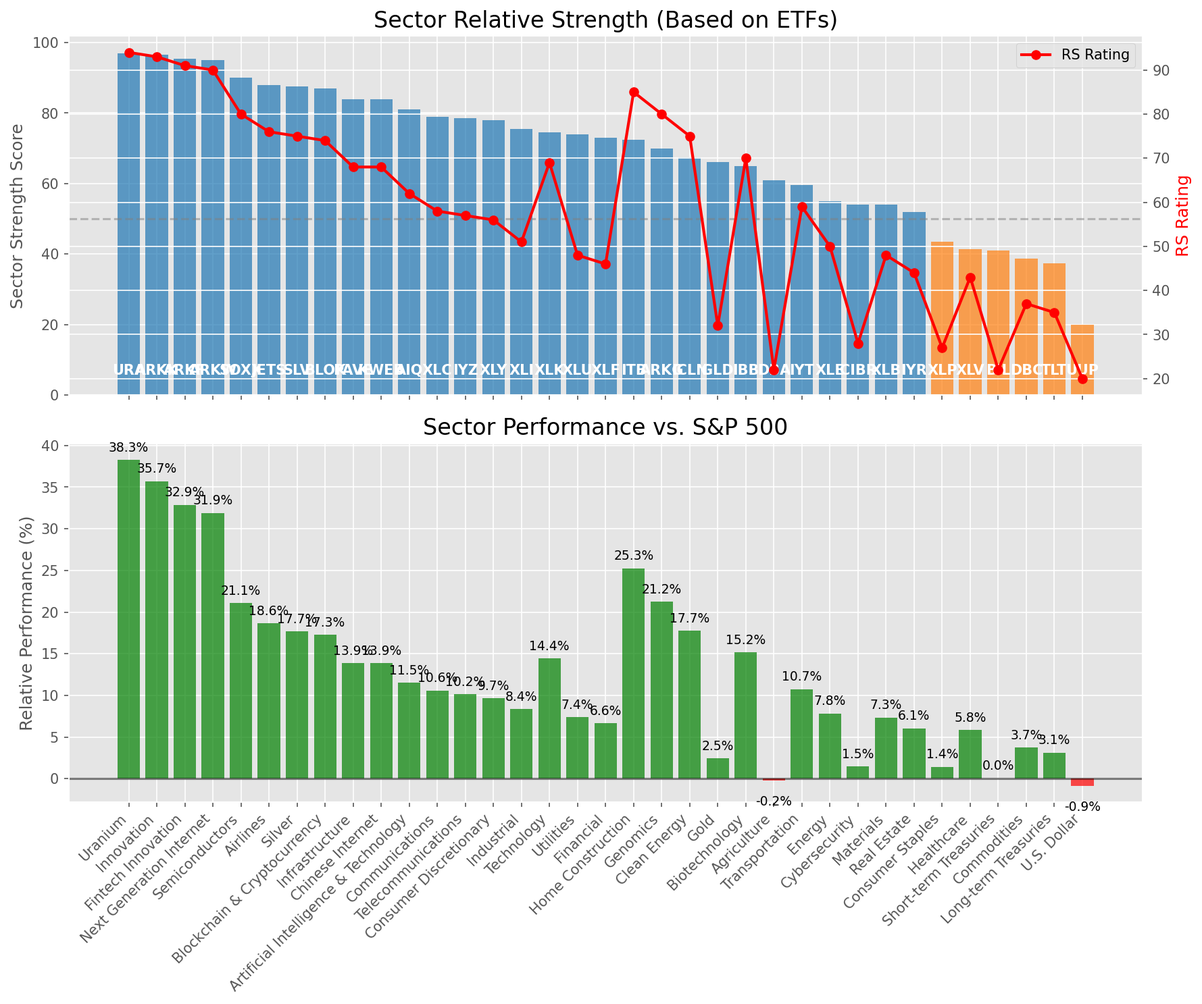
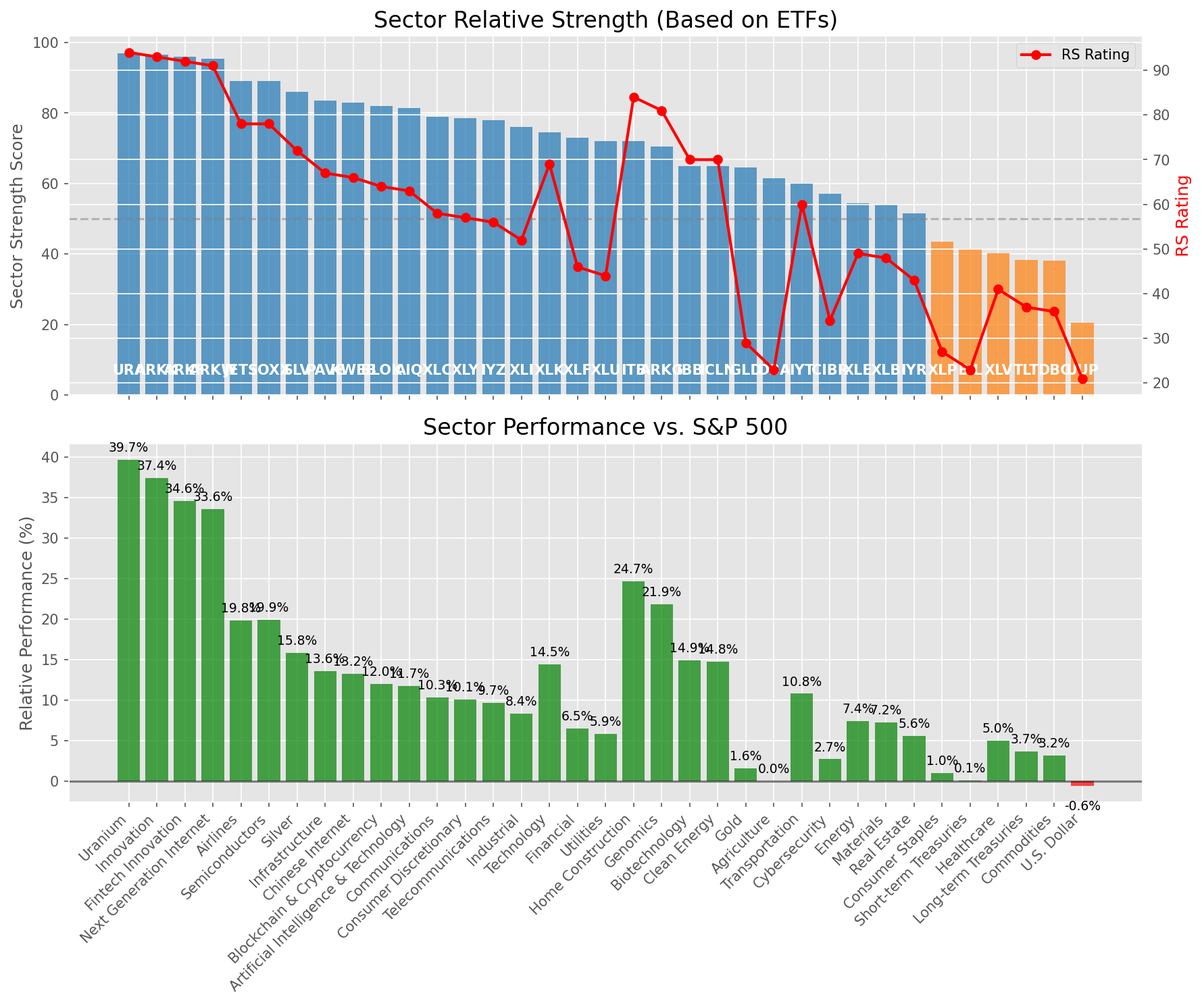
Add market report for 2025-08-23

diff --git a/oneil_relative_strength_report_2025-08-23.md b/oneil_relative_strength_report_2025-08-23.md
@@ -49,41 +49,41 @@ Based on William O'Neil's Relative Strength Methodology
 
 | ETF | Strength | RS Rating | Performance | Above Key MAs | Trend | Sector |
 |-----|----------|-----------|-------------|--------------|-------|--------|
-| [URA](https://www.tradingview.com/chart/?symbol=URA) | 97.0 | 94.0 | 38.29% | 10d ✓, 50d ✓, 200d ✓ | ↗ | Uranium |
-| [ARKK](https://www.tradingview.com/chart/?symbol=ARKK) | 96.5 | 93.0 | 35.72% | 10d ✓, 50d ✓, 200d ✓ | ↗ | Innovation |
-| [ARKF](https://www.tradingview.com/chart/?symbol=ARKF) | 95.5 | 91.0 | 32.87% | 10d ✓, 50d ✓, 200d ✓ | ↗ | Fintech Innovation |
-| [ARKW](https://www.tradingview.com/chart/?symbol=ARKW) | 95.0 | 90.0 | 31.90% | 10d ✓, 50d ✓, 200d ✓ | ↗ | Next Generation Internet |
-| [SOXX](https://www.tradingview.com/chart/?symbol=SOXX) | 90.0 | 80.0 | 21.06% | 10d ✓, 50d ✓, 200d ✓ | ↗ | Semiconductors |
-| [JETS](https://www.tradingview.com/chart/?symbol=JETS) | 88.0 | 76.0 | 18.64% | 10d ✓, 50d ✓, 200d ✓ | ↗ | Airlines |
-| [SLV](https://www.tradingview.com/chart/?symbol=SLV) | 87.5 | 75.0 | 17.68% | 10d ✓, 50d ✓, 200d ✓ | ↗ | Silver |
-| [BLOK](https://www.tradingview.com/chart/?symbol=BLOK) | 87.0 | 74.0 | 17.28% | 10d ✓, 50d ✓, 200d ✓ | ↗ | Blockchain & Cryptocurrency |
-| [PAVE](https://www.tradingview.com/chart/?symbol=PAVE) | 84.0 | 68.0 | 13.87% | 10d ✓, 50d ✓, 200d ✓ | ↗ | Infrastructure |
-| [KWEB](https://www.tradingview.com/chart/?symbol=KWEB) | 84.0 | 68.0 | 13.85% | 10d ✓, 50d ✓, 200d ✓ | ↗ | Chinese Internet |
-| [AIQ](https://www.tradingview.com/chart/?symbol=AIQ) | 81.0 | 62.0 | 11.51% | 10d ✓, 50d ✓, 200d ✓ | ↗ | Artificial Intelligence & Technology |
-| [XLC](https://www.tradingview.com/chart/?symbol=XLC) | 79.0 | 58.0 | 10.59% | 10d ✓, 50d ✓, 200d ✓ | ↗ | Communications |
-| [IYZ](https://www.tradingview.com/chart/?symbol=IYZ) | 78.5 | 57.0 | 10.16% | 10d ✓, 50d ✓, 200d ✓ | ↗ | Telecommunications |
-| [XLY](https://www.tradingview.com/chart/?symbol=XLY) | 78.0 | 56.0 | 9.66% | 10d ✓, 50d ✓, 200d ✓ | ↗ | Consumer Discretionary |
-| [XLI](https://www.tradingview.com/chart/?symbol=XLI) | 75.5 | 51.0 | 8.39% | 10d ✓, 50d ✓, 200d ✓ | ↗ | Industrial |
-| [XLK](https://www.tradingview.com/chart/?symbol=XLK) | 74.6 | 69.0 | 14.42% | 10d ✗, 50d ✓, 200d ✓ | ↗ | Technology |
-| [XLU](https://www.tradingview.com/chart/?symbol=XLU) | 74.0 | 48.0 | 7.42% | 10d ✓, 50d ✓, 200d ✓ | ↗ | Utilities |
-| [XLF](https://www.tradingview.com/chart/?symbol=XLF) | 73.0 | 46.0 | 6.65% | 10d ✓, 50d ✓, 200d ✓ | ↗ | Financial |
-| [ITB](https://www.tradingview.com/chart/?symbol=ITB) | 72.5 | 85.0 | 25.26% | 10d ✓, 50d ✓, 200d ✓ | ↘ | Home Construction |
-| [ARKG](https://www.tradingview.com/chart/?symbol=ARKG) | 70.0 | 80.0 | 21.23% | 10d ✓, 50d ✓, 200d ✓ | ↘ | Genomics |
-| [ICLN](https://www.tradingview.com/chart/?symbol=ICLN) | 67.5 | 75.0 | 17.74% | 10d ✓, 50d ✓, 200d ✓ | ↘ | Clean Energy |
-| [GLD](https://www.tradingview.com/chart/?symbol=GLD) | 66.0 | 32.0 | 2.46% | 10d ✓, 50d ✓, 200d ✓ | ↗ | Gold |
-| [IBB](https://www.tradingview.com/chart/?symbol=IBB) | 65.0 | 70.0 | 15.17% | 10d ✓, 50d ✓, 200d ✓ | ↘ | Biotechnology |
-| [DBA](https://www.tradingview.com/chart/?symbol=DBA) | 61.0 | 22.0 | -0.22% | 10d ✓, 50d ✓, 200d ✓ | ↗ | Agriculture |
-| [IYT](https://www.tradingview.com/chart/?symbol=IYT) | 59.5 | 59.0 | 10.75% | 10d ✓, 50d ✓, 200d ✓ | ↘ | Transportation |
-| [XLE](https://www.tradingview.com/chart/?symbol=XLE) | 55.0 | 50.0 | 7.84% | 10d ✓, 50d ✓, 200d ✓ | ↘ | Energy |
-| [CIBR](https://www.tradingview.com/chart/?symbol=CIBR) | 54.1 | 28.0 | 1.48% | 10d ✓, 50d ✗, 200d ✓ | ↗ | Cybersecurity |
-| [XLB](https://www.tradingview.com/chart/?symbol=XLB) | 54.0 | 48.0 | 7.35% | 10d ✓, 50d ✓, 200d ✓ | ↘ | Materials |
-| [IYR](https://www.tradingview.com/chart/?symbol=IYR) | 52.0 | 44.0 | 6.06% | 10d ✓, 50d ✓, 200d ✓ | ↘ | Real Estate |
-| [XLP](https://www.tradingview.com/chart/?symbol=XLP) | 43.5 | 27.0 | 1.44% | 10d ✓, 50d ✓, 200d ✓ | ↘ | Consumer Staples |
-| [XLV](https://www.tradingview.com/chart/?symbol=XLV) | 41.3 | 43.0 | 5.84% | 10d ✓, 50d ✓, 200d ✗ | ↘ | Healthcare |
-| [BIL](https://www.tradingview.com/chart/?symbol=BIL) | 41.0 | 22.0 | 0.04% | 10d ✓, 50d ✓, 200d ✓ | ↘ | Short-term Treasuries |
-| [DBC](https://www.tradingview.com/chart/?symbol=DBC) | 38.6 | 37.0 | 3.71% | 10d ✓, 50d ✗, 200d ✓ | ↘ | Commodities |
-| [TLT](https://www.tradingview.com/chart/?symbol=TLT) | 37.3 | 35.0 | 3.13% | 10d ✓, 50d ✓, 200d ✗ | ↘ | Long-term Treasuries |
-| [UUP](https://www.tradingview.com/chart/?symbol=UUP) | 19.9 | 20.0 | -0.87% | 10d ✗, 50d ✓, 200d ✗ | ↘ | U.S. Dollar |
+| [URA](https://www.tradingview.com/chart/?symbol=URA) | 97.0 | 94.0 | 39.71% | 10d ✓, 50d ✓, 200d ✓ | ↗ | Uranium |
+| [ARKK](https://www.tradingview.com/chart/?symbol=ARKK) | 96.5 | 93.0 | 37.43% | 10d ✓, 50d ✓, 200d ✓ | ↗ | Innovation |
+| [ARKF](https://www.tradingview.com/chart/?symbol=ARKF) | 96.0 | 92.0 | 34.58% | 10d ✓, 50d ✓, 200d ✓ | ↗ | Fintech Innovation |
+| [ARKW](https://www.tradingview.com/chart/?symbol=ARKW) | 95.5 | 91.0 | 33.61% | 10d ✓, 50d ✓, 200d ✓ | ↗ | Next Generation Internet |
+| [JETS](https://www.tradingview.com/chart/?symbol=JETS) | 89.0 | 78.0 | 19.84% | 10d ✓, 50d ✓, 200d ✓ | ↗ | Airlines |
+| [SOXX](https://www.tradingview.com/chart/?symbol=SOXX) | 89.0 | 78.0 | 19.95% | 10d ✓, 50d ✓, 200d ✓ | ↗ | Semiconductors |
+| [SLV](https://www.tradingview.com/chart/?symbol=SLV) | 86.0 | 72.0 | 15.83% | 10d ✓, 50d ✓, 200d ✓ | ↗ | Silver |
+| [PAVE](https://www.tradingview.com/chart/?symbol=PAVE) | 83.5 | 67.0 | 13.59% | 10d ✓, 50d ✓, 200d ✓ | ↗ | Infrastructure |
+| [KWEB](https://www.tradingview.com/chart/?symbol=KWEB) | 83.0 | 66.0 | 13.25% | 10d ✓, 50d ✓, 200d ✓ | ↗ | Chinese Internet |
+| [BLOK](https://www.tradingview.com/chart/?symbol=BLOK) | 82.0 | 64.0 | 12.05% | 10d ✓, 50d ✓, 200d ✓ | ↗ | Blockchain & Cryptocurrency |
+| [AIQ](https://www.tradingview.com/chart/?symbol=AIQ) | 81.5 | 63.0 | 11.74% | 10d ✓, 50d ✓, 200d ✓ | ↗ | Artificial Intelligence & Technology |
+| [XLC](https://www.tradingview.com/chart/?symbol=XLC) | 79.0 | 58.0 | 10.35% | 10d ✓, 50d ✓, 200d ✓ | ↗ | Communications |
+| [XLY](https://www.tradingview.com/chart/?symbol=XLY) | 78.5 | 57.0 | 10.13% | 10d ✓, 50d ✓, 200d ✓ | ↗ | Consumer Discretionary |
+| [IYZ](https://www.tradingview.com/chart/?symbol=IYZ) | 78.0 | 56.0 | 9.65% | 10d ✓, 50d ✓, 200d ✓ | ↗ | Telecommunications |
+| [XLI](https://www.tradingview.com/chart/?symbol=XLI) | 76.0 | 52.0 | 8.36% | 10d ✓, 50d ✓, 200d ✓ | ↗ | Industrial |
+| [XLK](https://www.tradingview.com/chart/?symbol=XLK) | 74.6 | 69.0 | 14.45% | 10d ✗, 50d ✓, 200d ✓ | ↗ | Technology |
+| [XLF](https://www.tradingview.com/chart/?symbol=XLF) | 73.0 | 46.0 | 6.52% | 10d ✓, 50d ✓, 200d ✓ | ↗ | Financial |
+| [XLU](https://www.tradingview.com/chart/?symbol=XLU) | 72.0 | 44.0 | 5.88% | 10d ✓, 50d ✓, 200d ✓ | ↗ | Utilities |
+| [ITB](https://www.tradingview.com/chart/?symbol=ITB) | 72.0 | 84.0 | 24.70% | 10d ✓, 50d ✓, 200d ✓ | ↘ | Home Construction |
+| [ARKG](https://www.tradingview.com/chart/?symbol=ARKG) | 70.5 | 81.0 | 21.87% | 10d ✓, 50d ✓, 200d ✓ | ↘ | Genomics |
+| [IBB](https://www.tradingview.com/chart/?symbol=IBB) | 65.0 | 70.0 | 14.91% | 10d ✓, 50d ✓, 200d ✓ | ↘ | Biotechnology |
+| [ICLN](https://www.tradingview.com/chart/?symbol=ICLN) | 65.0 | 70.0 | 14.79% | 10d ✓, 50d ✓, 200d ✓ | ↘ | Clean Energy |
+| [GLD](https://www.tradingview.com/chart/?symbol=GLD) | 64.5 | 29.0 | 1.56% | 10d ✓, 50d ✓, 200d ✓ | ↗ | Gold |
+| [DBA](https://www.tradingview.com/chart/?symbol=DBA) | 61.5 | 23.0 | 0.04% | 10d ✓, 50d ✓, 200d ✓ | ↗ | Agriculture |
+| [IYT](https://www.tradingview.com/chart/?symbol=IYT) | 60.0 | 60.0 | 10.81% | 10d ✓, 50d ✓, 200d ✓ | ↘ | Transportation |
+| [CIBR](https://www.tradingview.com/chart/?symbol=CIBR) | 57.1 | 34.0 | 2.72% | 10d ✓, 50d ✗, 200d ✓ | ↗ | Cybersecurity |
+| [XLE](https://www.tradingview.com/chart/?symbol=XLE) | 54.5 | 49.0 | 7.42% | 10d ✓, 50d ✓, 200d ✓ | ↘ | Energy |
+| [XLB](https://www.tradingview.com/chart/?symbol=XLB) | 54.0 | 48.0 | 7.24% | 10d ✓, 50d ✓, 200d ✓ | ↘ | Materials |
+| [IYR](https://www.tradingview.com/chart/?symbol=IYR) | 51.5 | 43.0 | 5.62% | 10d ✓, 50d ✓, 200d ✓ | ↘ | Real Estate |
+| [XLP](https://www.tradingview.com/chart/?symbol=XLP) | 43.5 | 27.0 | 1.02% | 10d ✓, 50d ✓, 200d ✓ | ↘ | Consumer Staples |
+| [BIL](https://www.tradingview.com/chart/?symbol=BIL) | 41.5 | 23.0 | 0.07% | 10d ✓, 50d ✓, 200d ✓ | ↘ | Short-term Treasuries |
+| [XLV](https://www.tradingview.com/chart/?symbol=XLV) | 40.3 | 41.0 | 5.01% | 10d ✓, 50d ✓, 200d ✗ | ↘ | Healthcare |
+| [TLT](https://www.tradingview.com/chart/?symbol=TLT) | 38.3 | 37.0 | 3.67% | 10d ✓, 50d ✓, 200d ✗ | ↘ | Long-term Treasuries |
+| [DBC](https://www.tradingview.com/chart/?symbol=DBC) | 38.1 | 36.0 | 3.18% | 10d ✓, 50d ✗, 200d ✓ | ↘ | Commodities |
+| [UUP](https://www.tradingview.com/chart/?symbol=UUP) | 20.4 | 21.0 | -0.58% | 10d ✗, 50d ✓, 200d ✗ | ↘ | U.S. Dollar |
 
 ### **Sector ETF Performance Interpretation**
 
@@ -100,163 +100,155 @@ This table shows the relative strength metrics for different market sectors base
 
 The current market leadership is coming from the following sectors: **Uranium, Innovation, Fintech Innovation**.
 
-The **Uranium** sector (represented by **URA**) is showing particularly strong relative strength with an RS rating of 94.0 and performance of 38.29% vs. the S&P 500. This sector is trading above its 10-day, 50-day, 200-day moving average(s). Investors should consider focusing on high RS stocks within these leading sectors for potential outperformance.
+The **Uranium** sector (represented by **URA**) is showing particularly strong relative strength with an RS rating of 94.0 and performance of 39.71% vs. the S&P 500. This sector is trading above its 10-day, 50-day, 200-day moving average(s). Investors should consider focusing on high RS stocks within these leading sectors for potential outperformance.
 
 ---
 
 ## **Buy Recommendations**
 
-The following 48 stocks show exceptional relative strength:
+The following 49 stocks show exceptional relative strength:
 
 | RS Rating | Buy Score | Current Price | Chart | Name | Ticker |
 |-----------|-----------|---------------|-------|------|--------|
-| 99 | 100 | $58.43 | [Chart](https://www.tradingview.com/chart/?symbol=TPC) | Tutor Perini Corporation | TPC |
 | 99 | 100 | $103.27 | [Chart](https://www.tradingview.com/chart/?symbol=RYTM) | Rhythm Pharmaceuticals, Inc. Common Stock | RYTM |
 | 99 | 100 | $190.64 | [Chart](https://www.tradingview.com/chart/?symbol=FUTU) | Futu Holdings Limited American Depositary Shares | FUTU |
-| 99 | 100 | $26.84 | [Chart](https://www.tradingview.com/chart/?symbol=LQDA) | Liquidia Corporation Common Stock | LQDA |
 | 99 | 100 | $44.38 | [Chart](https://www.tradingview.com/chart/?symbol=RKLB) | Rocket Lab Corporation Common Stock | RKLB |
+| 98 | 100 | $44.43 | [Chart](https://www.tradingview.com/chart/?symbol=TTMI) | TTM Technologies Inc | TTMI |
 | 98 | 100 | $198.98 | [Chart](https://www.tradingview.com/chart/?symbol=COOP) | Mr. Cooper Group Inc. Common Stock | COOP |
-| 97 | 100 | $44.43 | [Chart](https://www.tradingview.com/chart/?symbol=TTMI) | TTM Technologies Inc | TTMI |
-| 97 | 100 | $90.22 | [Chart](https://www.tradingview.com/chart/?symbol=LIF) | Life360, Inc. Common Stock | LIF |
+| 98 | 100 | $58.43 | [Chart](https://www.tradingview.com/chart/?symbol=TPC) | Tutor Perini Corporation | TPC |
+| 98 | 100 | $26.84 | [Chart](https://www.tradingview.com/chart/?symbol=LQDA) | Liquidia Corporation Common Stock | LQDA |
 | 96 | 100 | $344.67 | [Chart](https://www.tradingview.com/chart/?symbol=RCL) | Royal Caribbean Group | RCL |
+| 96 | 100 | $90.22 | [Chart](https://www.tradingview.com/chart/?symbol=LIF) | Life360, Inc. Common Stock | LIF |
 | 96 | 100 | $34.18 | [Chart](https://www.tradingview.com/chart/?symbol=CPS) | Cooper-Standard Automotive Inc. | CPS |
-| 95 | 100 | $66.83 | [Chart](https://www.tradingview.com/chart/?symbol=MRCY) | Mercury Systems Inc. | MRCY |
 | 95 | 100 | $31.12 | [Chart](https://www.tradingview.com/chart/?symbol=GFI) | Gold Fields Ltd ADR | GFI |
+| 95 | 100 | $66.83 | [Chart](https://www.tradingview.com/chart/?symbol=MRCY) | Mercury Systems Inc. | MRCY |
 | 94 | 100 | $60.39 | [Chart](https://www.tradingview.com/chart/?symbol=VIK) | Viking Holdings Ltd | VIK |
-| 93 | 100 | $98.91 | [Chart](https://www.tradingview.com/chart/?symbol=TPB) | Turning Point Brands, Inc. | TPB |
-| 93 | 100 | $32.64 | [Chart](https://www.tradingview.com/chart/?symbol=PAAS) | Pan American Silver Corp. | PAAS |
 | 93 | 100 | $99.22 | [Chart](https://www.tradingview.com/chart/?symbol=EBAY) | eBay Inc | EBAY |
-| 92 | 100 | $30.53 | [Chart](https://www.tradingview.com/chart/?symbol=ACMR) | ACM Research, Inc. Class A Common Stock | ACMR |
+| 92 | 100 | $31.63 | [Chart](https://www.tradingview.com/chart/?symbol=SRAD) | Sportradar Group AG Class A Ordinary Shares | SRAD |
+| 92 | 100 | $54.41 | [Chart](https://www.tradingview.com/chart/?symbol=ARKF) | ARK Fintech Innovation ETF | ARKF |
+| 92 | 100 | $32.64 | [Chart](https://www.tradingview.com/chart/?symbol=PAAS) | Pan American Silver Corp. | PAAS |
+| 92 | 100 | $98.91 | [Chart](https://www.tradingview.com/chart/?symbol=TPB) | Turning Point Brands, Inc. | TPB |
 | 91 | 100 | $75.38 | [Chart](https://www.tradingview.com/chart/?symbol=WNS) | WNS (Holdings) Limited | WNS |
-| 91 | 100 | $22.84 | [Chart](https://www.tradingview.com/chart/?symbol=BZ) | KANZHUN LIMITED American Depository Shares | BZ |
-| 91 | 100 | $54.41 | [Chart](https://www.tradingview.com/chart/?symbol=ARKF) | ARK Fintech Innovation ETF | ARKF |
-| 91 | 100 | $31.63 | [Chart](https://www.tradingview.com/chart/?symbol=SRAD) | Sportradar Group AG Class A Ordinary Shares | SRAD |
+| 91 | 100 | $158.31 | [Chart](https://www.tradingview.com/chart/?symbol=ARKW) | ARK Next Generation Internet ETF | ARKW |
 | 91 | 100 | $24.83 | [Chart](https://www.tradingview.com/chart/?symbol=EYE) | National Vision Holdings, Inc. Common Stock | EYE |
 | 90 | 100 | $58.51 | [Chart](https://www.tradingview.com/chart/?symbol=BTI) | British American Tobacco p.l.c. American Depositary Shares, American Depositary Shares, each representing one Ordinary Share | BTI |
-| 90 | 100 | $158.31 | [Chart](https://www.tradingview.com/chart/?symbol=ARKW) | ARK Next Generation Internet ETF | ARKW |
-| 90 | 100 | $55.33 | [Chart](https://www.tradingview.com/chart/?symbol=SIL) | Global X Silver Miners ETF (NEW) | SIL |
+| 90 | 100 | $30.53 | [Chart](https://www.tradingview.com/chart/?symbol=ACMR) | ACM Research, Inc. Class A Common Stock | ACMR |
+| 90 | 100 | $48.04 | [Chart](https://www.tradingview.com/chart/?symbol=LTM) | LATAM Airlines Group S.A. American Depositary Shares (each representing two thousand (2,000) shares of Common Stock) | LTM |
 | 89 | 100 | $37.15 | [Chart](https://www.tradingview.com/chart/?symbol=DB) | Deutsche Bank Aktiengesellschaft | DB |
-| 89 | 100 | $48.04 | [Chart](https://www.tradingview.com/chart/?symbol=LTM) | LATAM Airlines Group S.A. American Depositary Shares (each representing two thousand (2,000) shares of Common Stock) | LTM |
-| 88 | 100 | $167.00 | [Chart](https://www.tradingview.com/chart/?symbol=VSEC) | VSE Corp | VSEC |
-| 88 | 98 | $95.26 | [Chart](https://www.tradingview.com/chart/?symbol=C) | Citigroup Inc. | C |
+| 88 | 100 | $51.19 | [Chart](https://www.tradingview.com/chart/?symbol=RING) | iShares MSCI Global Gold Miners ETF | RING |
+| 89 | 99 | $55.33 | [Chart](https://www.tradingview.com/chart/?symbol=SIL) | Global X Silver Miners ETF (NEW) | SIL |
+| 89 | 99 | $95.26 | [Chart](https://www.tradingview.com/chart/?symbol=C) | Citigroup Inc. | C |
+| 87 | 99 | $167.00 | [Chart](https://www.tradingview.com/chart/?symbol=VSEC) | VSE Corp | VSEC |
 | 87 | 98 | $23.69 | [Chart](https://www.tradingview.com/chart/?symbol=MAG) | MAG Silver Corp. | MAG |
+| 87 | 98 | $255.01 | [Chart](https://www.tradingview.com/chart/?symbol=BAP) | Credicorp LTD | BAP |
 | 88 | 97 | $17.54 | [Chart](https://www.tradingview.com/chart/?symbol=ARLO) | Arlo Technologies, Inc. | ARLO |
-| 84 | 97 | $51.19 | [Chart](https://www.tradingview.com/chart/?symbol=RING) | iShares MSCI Global Gold Miners ETF | RING |
 | 84 | 97 | $42.47 | [Chart](https://www.tradingview.com/chart/?symbol=AHR) | American Healthcare REIT, Inc. | AHR |
+| 87 | 96 | $22.84 | [Chart](https://www.tradingview.com/chart/?symbol=BZ) | KANZHUN LIMITED American Depository Shares | BZ |
+| 86 | 96 | $53.53 | [Chart](https://www.tradingview.com/chart/?symbol=FHI) | Federated Hermes, Inc. | FHI |
 | 86 | 96 | $197.24 | [Chart](https://www.tradingview.com/chart/?symbol=AWI) | Armstrong World Industries, Inc. | AWI |
 | 86 | 96 | $31.63 | [Chart](https://www.tradingview.com/chart/?symbol=IIIV) | i3 Verticals, Inc. Class A Common Stock | IIIV |
-| 84 | 96 | $30.87 | [Chart](https://www.tradingview.com/chart/?symbol=OR) | OR Royalties Inc. | OR |
 | 84 | 96 | $95.06 | [Chart](https://www.tradingview.com/chart/?symbol=LLYVK) | Liberty Media Corporation Series C Liberty Live Common Stock | LLYVK |
+| 84 | 96 | $441.24 | [Chart](https://www.tradingview.com/chart/?symbol=CYBR) | CyberArk Software Ltd. | CYBR |
 | 83 | 96 | $26.92 | [Chart](https://www.tradingview.com/chart/?symbol=LAUR) | Laureate Education, Inc. Common Stock | LAUR |
-| 85 | 95 | $123.98 | [Chart](https://www.tradingview.com/chart/?symbol=PPLT) | abrdn Physical Platinum Shares ETF | PPLT |
 | 85 | 95 | $116.33 | [Chart](https://www.tradingview.com/chart/?symbol=AZZ) | AZZ Inc. | AZZ |
-| 85 | 95 | $53.53 | [Chart](https://www.tradingview.com/chart/?symbol=FHI) | Federated Hermes, Inc. | FHI |
-| 84 | 95 | $255.01 | [Chart](https://www.tradingview.com/chart/?symbol=BAP) | Credicorp LTD | BAP |
-| 84 | 95 | $26.34 | [Chart](https://www.tradingview.com/chart/?symbol=TFPM) | Triple Flag Precious Metals Corp. | TFPM |
+| 85 | 95 | $123.98 | [Chart](https://www.tradingview.com/chart/?symbol=PPLT) | abrdn Physical Platinum Shares ETF | PPLT |
+| 85 | 95 | $19.82 | [Chart](https://www.tradingview.com/chart/?symbol=DAN) | Dana Incorporated | DAN |
+| 83 | 95 | $30.87 | [Chart](https://www.tradingview.com/chart/?symbol=OR) | OR Royalties Inc. | OR |
+| 84 | 94 | $50.39 | [Chart](https://www.tradingview.com/chart/?symbol=FAST) | Fastenal Co | FAST |
 | 84 | 94 | $58.46 | [Chart](https://www.tradingview.com/chart/?symbol=CALX) | CALIX, INC. | CALX |
-| 83 | 93 | $50.39 | [Chart](https://www.tradingview.com/chart/?symbol=FAST) | Fastenal Co | FAST |
-| 81 | 93 | $36.34 | [Chart](https://www.tradingview.com/chart/?symbol=ATRO) | Astronics Corp | ATRO |
-| 82 | 92 | $19.82 | [Chart](https://www.tradingview.com/chart/?symbol=DAN) | Dana Incorporated | DAN |
-| 81 | 91 | $16.00 | [Chart](https://www.tradingview.com/chart/?symbol=EZPW) | Ezcorp Inc | EZPW |
+| 83 | 94 | $26.34 | [Chart](https://www.tradingview.com/chart/?symbol=TFPM) | Triple Flag Precious Metals Corp. | TFPM |
+| 82 | 93 | $357.81 | [Chart](https://www.tradingview.com/chart/?symbol=CVNA) | Carvana Co. | CVNA |
+| 80 | 93 | $169.12 | [Chart](https://www.tradingview.com/chart/?symbol=IRTC) | iRhythm Technologies, Inc | IRTC |
 
 ---
 
 
 ## **Sell Recommendations**
 
-The following 89 stocks show deteriorating relative strength:
+The following 80 stocks show deteriorating relative strength:
 
 | RS Rating | Sell Score | Current Price | Chart | Name | Ticker |
 |-----------|------------|---------------|-------|------|--------|
 | 1 | 100 | $24.15 | [Chart](https://www.tradingview.com/chart/?symbol=TECS) | Direxion Daily Technology Bear 3x Shares | TECS |
-| 2 | 100 | $15.19 | [Chart](https://www.tradingview.com/chart/?symbol=SPT) | Sprout Social, Inc Class A Common Stock | SPT |
 | 2 | 100 | $15.60 | [Chart](https://www.tradingview.com/chart/?symbol=KRNT) | Kornit Digital Ltd. | KRNT |
-| 2 | 100 | $36.40 | [Chart](https://www.tradingview.com/chart/?symbol=TWM) | ProShares UltraShort Russell2000 | TWM |
-| 2 | 100 | $12.15 | [Chart](https://www.tradingview.com/chart/?symbol=ACVA) | ACV Auctions Inc. | ACVA |
 | 2 | 100 | $17.87 | [Chart](https://www.tradingview.com/chart/?symbol=DJT) | Trump Media & Technology Group Corp. Common Stock | DJT |
+| 2 | 100 | $15.19 | [Chart](https://www.tradingview.com/chart/?symbol=SPT) | Sprout Social, Inc Class A Common Stock | SPT |
 | 2 | 100 | $22.07 | [Chart](https://www.tradingview.com/chart/?symbol=ZSL) | ProShares UltraShort Silver | ZSL |
 | 3 | 100 | $22.22 | [Chart](https://www.tradingview.com/chart/?symbol=CLW) | Clearwater Paper Corporation | CLW |
-| 3 | 100 | $37.70 | [Chart](https://www.tradingview.com/chart/?symbol=SDOW) | ProShares UltraPro Short Dow 30 | SDOW |
-| 3 | 100 | $26.89 | [Chart](https://www.tradingview.com/chart/?symbol=BRZE) | Braze, Inc. Class A Common Stock | BRZE |
 | 3 | 100 | $34.79 | [Chart](https://www.tradingview.com/chart/?symbol=IOT) | Samsara Inc. | IOT |
+| 3 | 100 | $36.40 | [Chart](https://www.tradingview.com/chart/?symbol=TWM) | ProShares UltraShort Russell2000 | TWM |
+| 3 | 100 | $37.70 | [Chart](https://www.tradingview.com/chart/?symbol=SDOW) | ProShares UltraPro Short Dow 30 | SDOW |
+| 3 | 100 | $12.15 | [Chart](https://www.tradingview.com/chart/?symbol=ACVA) | ACV Auctions Inc. | ACVA |
+| 3 | 100 | $26.89 | [Chart](https://www.tradingview.com/chart/?symbol=BRZE) | Braze, Inc. Class A Common Stock | BRZE |
 | 5 | 100 | $47.47 | [Chart](https://www.tradingview.com/chart/?symbol=EXAS) | Exact Sciences Corp | EXAS |
-| 7 | 100 | $25.85 | [Chart](https://www.tradingview.com/chart/?symbol=TBBB) | BBB Foods Inc. | TBBB |
-| 8 | 100 | $11.80 | [Chart](https://www.tradingview.com/chart/?symbol=CHPT) | ChargePoint Holdings, Inc. | CHPT |
-| 9 | 100 | $11.17 | [Chart](https://www.tradingview.com/chart/?symbol=PATH) | UiPath, Inc. | PATH |
+| 6 | 100 | $25.85 | [Chart](https://www.tradingview.com/chart/?symbol=TBBB) | BBB Foods Inc. | TBBB |
 | 10 | 100 | $60.03 | [Chart](https://www.tradingview.com/chart/?symbol=ATKR) | Atkore Inc. | ATKR |
-| 10 | 100 | $38.40 | [Chart](https://www.tradingview.com/chart/?symbol=SH) | ProShares Short S&P500 | SH |
 | 10 | 100 | $12.35 | [Chart](https://www.tradingview.com/chart/?symbol=BSM) | Black Stone Minerals, L.P. | BSM |
+| 10 | 100 | $38.40 | [Chart](https://www.tradingview.com/chart/?symbol=SH) | ProShares Short S&P500 | SH |
 | 13 | 100 | $15.12 | [Chart](https://www.tradingview.com/chart/?symbol=CHCT) | Community Healthcare Trust Incorporated Common Stock, $0.01 par value per share | CHCT |
-| 15 | 100 | $16.95 | [Chart](https://www.tradingview.com/chart/?symbol=CTO) | CTO Realty Growth, Inc. | CTO |
-| 9 | 99 | $21.21 | [Chart](https://www.tradingview.com/chart/?symbol=ERY) | Direxion Daily Energy Bear 2X Shares | ERY |
-| 13 | 99 | $10.02 | [Chart](https://www.tradingview.com/chart/?symbol=NMZ) | Nuveen Municipal High Income Opportunity Fund | NMZ |
+| 14 | 100 | $16.95 | [Chart](https://www.tradingview.com/chart/?symbol=CTO) | CTO Realty Growth, Inc. | CTO |
+| 14 | 100 | $109.44 | [Chart](https://www.tradingview.com/chart/?symbol=CPT) | Camden Property Trust | CPT |
+| 14 | 100 | $11.80 | [Chart](https://www.tradingview.com/chart/?symbol=CHPT) | ChargePoint Holdings, Inc. | CHPT |
+| 16 | 100 | $39.20 | [Chart](https://www.tradingview.com/chart/?symbol=UDR) | UDR, Inc. | UDR |
+| 10 | 99 | $11.17 | [Chart](https://www.tradingview.com/chart/?symbol=PATH) | UiPath, Inc. | PATH |
 | 14 | 99 | $32.29 | [Chart](https://www.tradingview.com/chart/?symbol=PCVX) | Vaxcyte, Inc. Common Stock | PCVX |
-| 15 | 99 | $109.44 | [Chart](https://www.tradingview.com/chart/?symbol=CPT) | Camden Property Trust | CPT |
 | 9 | 98 | $95.94 | [Chart](https://www.tradingview.com/chart/?symbol=CNI) | Canadian National Railway | CNI |
 | 10 | 98 | $786.47 | [Chart](https://www.tradingview.com/chart/?symbol=EQIX) | Equinix, Inc. Common Stock REIT | EQIX |
-| 17 | 98 | $20.11 | [Chart](https://www.tradingview.com/chart/?symbol=AVBP) | ArriVent BioPharma, Inc. Common Stock | AVBP |
-| 18 | 98 | $39.20 | [Chart](https://www.tradingview.com/chart/?symbol=UDR) | UDR, Inc. | UDR |
-| 6 | 96 | $80.06 | [Chart](https://www.tradingview.com/chart/?symbol=ESTC) | Elastic N.V. | ESTC |
+| 14 | 98 | $10.02 | [Chart](https://www.tradingview.com/chart/?symbol=NMZ) | Nuveen Municipal High Income Opportunity Fund | NMZ |
+| 10 | 97 | $74.84 | [Chart](https://www.tradingview.com/chart/?symbol=OKE) | Oneok, Inc. | OKE |
+| 11 | 97 | $21.21 | [Chart](https://www.tradingview.com/chart/?symbol=ERY) | Direxion Daily Energy Bear 2X Shares | ERY |
+| 8 | 96 | $25.30 | [Chart](https://www.tradingview.com/chart/?symbol=GDEN) | Golden Entertainment, Inc. Common Stock | GDEN |
 | 9 | 96 | $32.77 | [Chart](https://www.tradingview.com/chart/?symbol=PSQ) | ProShares Short QQQ | PSQ |
-| 11 | 96 | $74.84 | [Chart](https://www.tradingview.com/chart/?symbol=OKE) | Oneok, Inc. | OKE |
 | 12 | 96 | $10.12 | [Chart](https://www.tradingview.com/chart/?symbol=SPDN) | Direxion Daily S&P 500 Bear 1X Shares | SPDN |
-| 15 | 96 | $34.91 | [Chart](https://www.tradingview.com/chart/?symbol=RGR) | Sturm, Ruger & Company, Inc. | RGR |
+| 15 | 96 | $193.62 | [Chart](https://www.tradingview.com/chart/?symbol=AVB) | AvalonBay Communities, Inc. | AVB |
+| 19 | 96 | $20.11 | [Chart](https://www.tradingview.com/chart/?symbol=AVBP) | ArriVent BioPharma, Inc. Common Stock | AVBP |
 | 12 | 95 | $110.58 | [Chart](https://www.tradingview.com/chart/?symbol=ITGR) | Integer Holdings Corporation | ITGR |
-| 16 | 95 | $193.62 | [Chart](https://www.tradingview.com/chart/?symbol=AVB) | AvalonBay Communities, Inc. | AVB |
+| 15 | 95 | $26.05 | [Chart](https://www.tradingview.com/chart/?symbol=FCPT) | Four Corners Property Trust, Inc. | FCPT |
+| 24 | 95 | $47.63 | [Chart](https://www.tradingview.com/chart/?symbol=EDU) | New Oriental Education and Technology Group, Inc. American Depositary Shares (each representing ten (10) Common Shares) | EDU |
 | 8 | 94 | $26.68 | [Chart](https://www.tradingview.com/chart/?symbol=THR) | THERMON GROUP HOLDINGS, INC. | THR |
-| 10 | 94 | $25.30 | [Chart](https://www.tradingview.com/chart/?symbol=GDEN) | Golden Entertainment, Inc. Common Stock | GDEN |
+| 8 | 94 | $80.06 | [Chart](https://www.tradingview.com/chart/?symbol=ESTC) | Elastic N.V. | ESTC |
+| 9 | 94 | $28.87 | [Chart](https://www.tradingview.com/chart/?symbol=CNX) | CNX Resources Corporation | CNX |
 | 11 | 94 | $24.82 | [Chart](https://www.tradingview.com/chart/?symbol=DOG) | ProShares Short Dow30 | DOG |
-| 16 | 94 | $26.05 | [Chart](https://www.tradingview.com/chart/?symbol=FCPT) | Four Corners Property Trust, Inc. | FCPT |
-| 17 | 94 | $10.95 | [Chart](https://www.tradingview.com/chart/?symbol=MQY) | Blackrock Muni Yield Quality Fund, Inc | MQY |
 | 12 | 93 | $15.75 | [Chart](https://www.tradingview.com/chart/?symbol=MCS) | The Marcus Corporation | MCS |
+| 18 | 93 | $10.95 | [Chart](https://www.tradingview.com/chart/?symbol=MQY) | Blackrock Muni Yield Quality Fund, Inc | MQY |
 | 18 | 93 | $13.75 | [Chart](https://www.tradingview.com/chart/?symbol=OCSL) | Oaktree Specialty Lending Corporation | OCSL |
-| 11 | 92 | $28.87 | [Chart](https://www.tradingview.com/chart/?symbol=CNX) | CNX Resources Corporation | CNX |
-| 27 | 92 | $47.63 | [Chart](https://www.tradingview.com/chart/?symbol=EDU) | New Oriental Education and Technology Group, Inc. American Depositary Shares (each representing ten (10) Common Shares) | EDU |
-| 13 | 91 | $31.26 | [Chart](https://www.tradingview.com/chart/?symbol=INVH) | Invitation Homes Inc. Common Stock | INVH |
+| 12 | 92 | $31.26 | [Chart](https://www.tradingview.com/chart/?symbol=INVH) | Invitation Homes Inc. Common Stock | INVH |
+| 16 | 91 | $69.60 | [Chart](https://www.tradingview.com/chart/?symbol=HSIC) | Henry Schein Inc | HSIC |
 | 16 | 91 | $75.66 | [Chart](https://www.tradingview.com/chart/?symbol=AWR) | American States Water Company | AWR |
-| 16 | 91 | $24.30 | [Chart](https://www.tradingview.com/chart/?symbol=JANX) | Janux Therapeutics, Inc. Common Stock | JANX |
 | 18 | 91 | $93.86 | [Chart](https://www.tradingview.com/chart/?symbol=IRM) | Iron Mountain Inc. | IRM |
-| 18 | 91 | $11.63 | [Chart](https://www.tradingview.com/chart/?symbol=NVG) | Nuveen AMT-Free Municipal Credit Income Fund | NVG |
+| 18 | 91 | $22.38 | [Chart](https://www.tradingview.com/chart/?symbol=DIN) | Dine Brands Global, Inc. | DIN |
 | 11 | 90 | $210.55 | [Chart](https://www.tradingview.com/chart/?symbol=MMC) | Marsh & McLennan Companies, Inc. | MMC |
-| 11 | 90 | $66.56 | [Chart](https://www.tradingview.com/chart/?symbol=CBZ) | CBIZ, Inc. | CBZ |
-| 18 | 89 | $69.60 | [Chart](https://www.tradingview.com/chart/?symbol=HSIC) | Henry Schein Inc | HSIC |
+| 12 | 89 | $66.56 | [Chart](https://www.tradingview.com/chart/?symbol=CBZ) | CBIZ, Inc. | CBZ |
+| 20 | 89 | $11.63 | [Chart](https://www.tradingview.com/chart/?symbol=NVG) | Nuveen AMT-Free Municipal Credit Income Fund | NVG |
 | 21 | 89 | $144.87 | [Chart](https://www.tradingview.com/chart/?symbol=OLED) | Universal Display Corp | OLED |
+| 16 | 88 | $222.87 | [Chart](https://www.tradingview.com/chart/?symbol=SBAC) | SBA Communications Corp | SBAC |
 | 18 | 88 | $69.90 | [Chart](https://www.tradingview.com/chart/?symbol=PYPL) | PayPal Holdings, Inc. Common Stock | PYPL |
+| 19 | 88 | $24.30 | [Chart](https://www.tradingview.com/chart/?symbol=JANX) | Janux Therapeutics, Inc. Common Stock | JANX |
 | 19 | 88 | $10.39 | [Chart](https://www.tradingview.com/chart/?symbol=NMFC) | NEW MOUNTAIN FINANCE CORPORATION | NMFC |
-| 19 | 88 | $20.20 | [Chart](https://www.tradingview.com/chart/?symbol=KIDS) | OrthoPediatrics Corp. Common Stock | KIDS |
-| 21 | 88 | $22.38 | [Chart](https://www.tradingview.com/chart/?symbol=DIN) | Dine Brands Global, Inc. | DIN |
 | 19 | 87 | $82.51 | [Chart](https://www.tradingview.com/chart/?symbol=AGO) | Assured Guaranty, LTD | AGO |
+| 20 | 87 | $41.09 | [Chart](https://www.tradingview.com/chart/?symbol=CUBE) | CubeSmart | CUBE |
 | 14 | 86 | $31.88 | [Chart](https://www.tradingview.com/chart/?symbol=JD) | JD.com, Inc. | JD |
-| 18 | 86 | $222.87 | [Chart](https://www.tradingview.com/chart/?symbol=SBAC) | SBA Communications Corp | SBAC |
-| 19 | 86 | $26.77 | [Chart](https://www.tradingview.com/chart/?symbol=WKC) | World Kinect Corporation | WKC |
-| 20 | 86 | $80.63 | [Chart](https://www.tradingview.com/chart/?symbol=IR) | Ingersoll Rand Inc. Common Stock | IR |
-| 21 | 86 | $41.09 | [Chart](https://www.tradingview.com/chart/?symbol=CUBE) | CubeSmart | CUBE |
-| 24 | 86 | $20.88 | [Chart](https://www.tradingview.com/chart/?symbol=BKLN) | Invesco Senior Loan ETF | BKLN |
-| 16 | 85 | $63.41 | [Chart](https://www.tradingview.com/chart/?symbol=MDLZ) | Mondelez International, Inc. Class A | MDLZ |
 | 19 | 85 | $30.04 | [Chart](https://www.tradingview.com/chart/?symbol=AMAL) | Amalgamated Financial Corp. Common Stock (DE) | AMAL |
 | 20 | 85 | $45.39 | [Chart](https://www.tradingview.com/chart/?symbol=EPI) | WisdomTree India Earnings Fund ETF | EPI |
-| 24 | 85 | $23.34 | [Chart](https://www.tradingview.com/chart/?symbol=BSJQ) | Invesco BulletShares 2026 High Yield Corporate Bond ETF | BSJQ |
-| 20 | 84 | $14.78 | [Chart](https://www.tradingview.com/chart/?symbol=GBDC) | Golub Capital BDC, Inc. | GBDC |
-| 23 | 84 | $45.88 | [Chart](https://www.tradingview.com/chart/?symbol=FTSL) | First Trust Senior Loan Fund ETF | FTSL |
-| 28 | 82 | $27.12 | [Chart](https://www.tradingview.com/chart/?symbol=MRNA) | Moderna, Inc. Common Stock | MRNA |
-| 22 | 81 | $23.05 | [Chart](https://www.tradingview.com/chart/?symbol=BSJP) | Invesco BulletShares 2025 High Yield Corporate Bond ETF | BSJP |
-| 26 | 80 | $31.14 | [Chart](https://www.tradingview.com/chart/?symbol=CNQ) | Canadian Natural Resources Limited | CNQ |
-| 30 | 79 | $42.34 | [Chart](https://www.tradingview.com/chart/?symbol=WHD) | Cactus, Inc. | WHD |
-| 37 | 78 | $10.68 | [Chart](https://www.tradingview.com/chart/?symbol=LOCO) | El Pollo Loco Holdings, Inc. | LOCO |
-| 37 | 76 | $22.08 | [Chart](https://www.tradingview.com/chart/?symbol=DBC) | Invesco DB Commodity Index Tracking Fund | DBC |
-| 25 | 75 | $211.88 | [Chart](https://www.tradingview.com/chart/?symbol=AMT) | American Tower Corporation | AMT |
-| 29 | 74 | $31.80 | [Chart](https://www.tradingview.com/chart/?symbol=BOX) | BOX, INC. | BOX |
-| 32 | 73 | $13.56 | [Chart](https://www.tradingview.com/chart/?symbol=NAVI) | Navient Corporation | NAVI |
-| 30 | 72 | $11.04 | [Chart](https://www.tradingview.com/chart/?symbol=FPI) | Farmland Partners Inc. | FPI |
-| 33 | 72 | $163.26 | [Chart](https://www.tradingview.com/chart/?symbol=TRGP) | Targa Resources Corp. | TRGP |
-| 34 | 72 | $15.89 | [Chart](https://www.tradingview.com/chart/?symbol=NCDL) | Nuveen Churchill Direct Lending Corp | NCDL |
-| 35 | 72 | $10.88 | [Chart](https://www.tradingview.com/chart/?symbol=BTZ) | BlackRock Credit Allocation Income Trust | BTZ |
-| 33 | 70 | $134.20 | [Chart](https://www.tradingview.com/chart/?symbol=APO) | Apollo Global Management, Inc. | APO |
-| 38 | 70 | $76.08 | [Chart](https://www.tradingview.com/chart/?symbol=NUVL) | Nuvalent, Inc. Class A Common Stock | NUVL |
+| 20 | 85 | $26.77 | [Chart](https://www.tradingview.com/chart/?symbol=WKC) | World Kinect Corporation | WKC |
+| 21 | 85 | $80.63 | [Chart](https://www.tradingview.com/chart/?symbol=IR) | Ingersoll Rand Inc. Common Stock | IR |
+| 25 | 85 | $20.88 | [Chart](https://www.tradingview.com/chart/?symbol=BKLN) | Invesco Senior Loan ETF | BKLN |
+| 17 | 84 | $63.41 | [Chart](https://www.tradingview.com/chart/?symbol=MDLZ) | Mondelez International, Inc. Class A | MDLZ |
+| 21 | 83 | $14.78 | [Chart](https://www.tradingview.com/chart/?symbol=GBDC) | Golub Capital BDC, Inc. | GBDC |
+| 25 | 82 | $45.88 | [Chart](https://www.tradingview.com/chart/?symbol=FTSL) | First Trust Senior Loan Fund ETF | FTSL |
+| 20 | 80 | $211.88 | [Chart](https://www.tradingview.com/chart/?symbol=AMT) | American Tower Corporation | AMT |
+| 23 | 80 | $23.05 | [Chart](https://www.tradingview.com/chart/?symbol=BSJP) | Invesco BulletShares 2025 High Yield Corporate Bond ETF | BSJP |
+| 28 | 78 | $31.14 | [Chart](https://www.tradingview.com/chart/?symbol=CNQ) | Canadian Natural Resources Limited | CNQ |
+| 26 | 77 | $31.80 | [Chart](https://www.tradingview.com/chart/?symbol=BOX) | BOX, INC. | BOX |
+| 36 | 77 | $22.08 | [Chart](https://www.tradingview.com/chart/?symbol=DBC) | Invesco DB Commodity Index Tracking Fund | DBC |
+| 30 | 75 | $163.26 | [Chart](https://www.tradingview.com/chart/?symbol=TRGP) | Targa Resources Corp. | TRGP |
+| 35 | 74 | $42.34 | [Chart](https://www.tradingview.com/chart/?symbol=WHD) | Cactus, Inc. | WHD |
+| 34 | 73 | $10.88 | [Chart](https://www.tradingview.com/chart/?symbol=BTZ) | BlackRock Credit Allocation Income Trust | BTZ |
+| 36 | 73 | $76.08 | [Chart](https://www.tradingview.com/chart/?symbol=NUVL) | Nuvalent, Inc. Class A Common Stock | NUVL |
+| 32 | 70 | $13.16 | [Chart](https://www.tradingview.com/chart/?symbol=PDBC) | Invesco Actively Managed Exch-Traded Commodity Fd Tr Invesco Optimum Yield Diversified Commodity Strategy No K-1 ETF | PDBC |
 | 32 | 69 | $38.08 | [Chart](https://www.tradingview.com/chart/?symbol=VNO) | Vornado Realty Trust | VNO |
-| 34 | 68 | $13.16 | [Chart](https://www.tradingview.com/chart/?symbol=PDBC) | Invesco Actively Managed Exch-Traded Commodity Fd Tr Invesco Optimum Yield Diversified Commodity Strategy No K-1 ETF | PDBC |
-| 39 | 66 | $12.33 | [Chart](https://www.tradingview.com/chart/?symbol=PBR) | PETROLEO BRASILEIRO S.A.-PETROBRAS ADS (REP 1 COMMON SHARE) | PBR |
-| 38 | 63 | $103.79 | [Chart](https://www.tradingview.com/chart/?symbol=CCI) | Crown Castle Inc. | CCI |
+| 34 | 69 | $134.20 | [Chart](https://www.tradingview.com/chart/?symbol=APO) | Apollo Global Management, Inc. | APO |
+| 37 | 68 | $12.33 | [Chart](https://www.tradingview.com/chart/?symbol=PBR) | PETROLEO BRASILEIRO S.A.-PETROBRAS ADS (REP 1 COMMON SHARE) | PBR |
 
 ## **Methodology**
 
